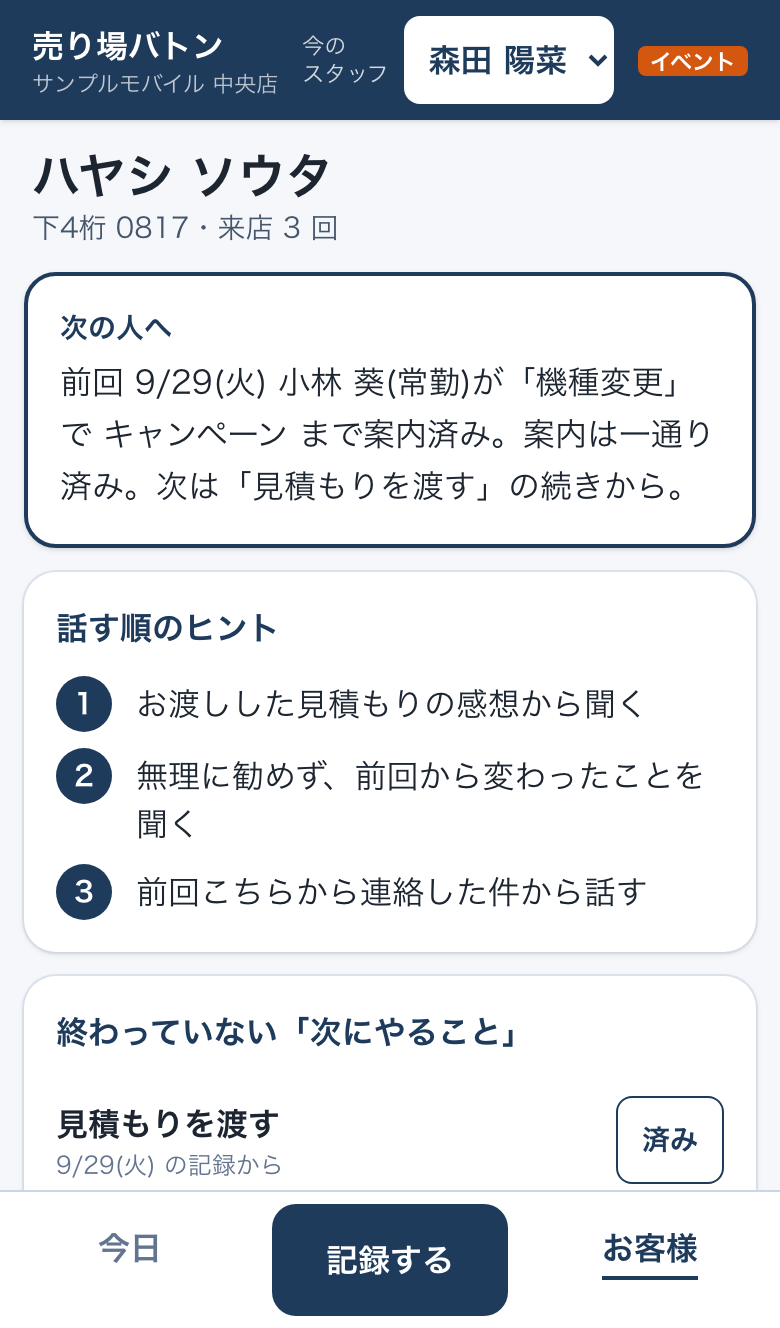
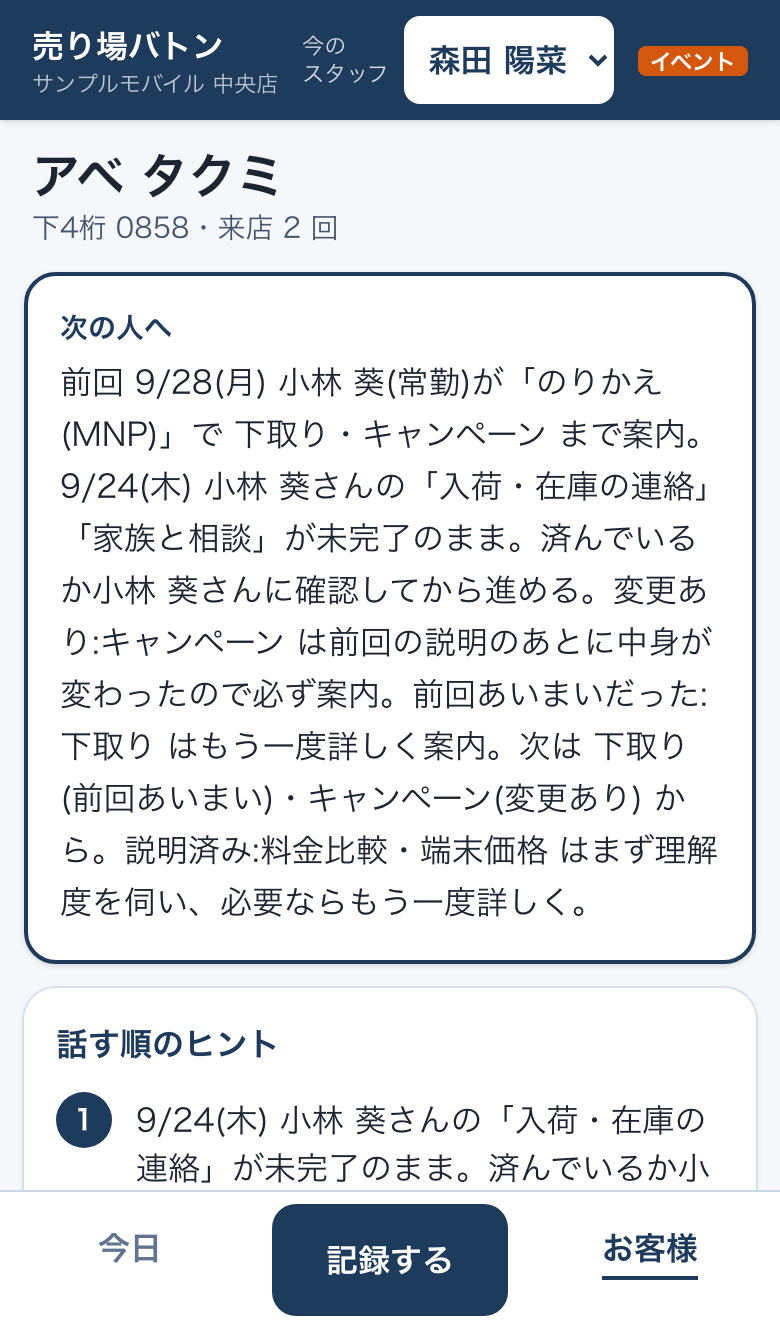
文書に現場の判断(制作者の答えの原文)を追加し、要件・DB設計・テストを更新。お客様カードのスクショを撮り直し

diff --git a/src/lib/handoff.ts b/src/lib/handoff.ts
@@ -152,6 +152,23 @@ export function staleActionText(a: StaleAction): string {
   return `${formatJstShort(a.visitedAt)} ${a.staffName}さんの「${actionLabel(a.kind, a.note)}」が未完了のまま。済んでいるか${a.staffName}さんに確認してから進める`;
 }
 
+/**
+ * 要約用:同じ日・同じ担当者の未完了はまとめて1文にする。
+ * 例:「9/24(木) 小林 葵さんの「入荷・在庫の連絡」「家族と相談」が未完了のまま。済んでいるか小林 葵さんに確認してから進める」
+ */
+export function staleSummaryTexts(stale: StaleAction[]): string[] {
+  const groups = new Map<string, StaleAction[]>();
+  for (const a of stale) {
+    const key = `${a.visitedAt.getTime()}|${a.staffName}`;
+    groups.set(key, [...(groups.get(key) ?? []), a]);
+  }
+  return [...groups.values()].map((list) => {
+    const { visitedAt, staffName } = list[0];
+    const labels = list.map((a) => `「${actionLabel(a.kind, a.note)}」`).join("");
+    return `${formatJstShort(visitedAt)} ${staffName}さんの${labels}が未完了のまま。済んでいるか${staffName}さんに確認してから進める`;
+  });
+}
+
 /** 次に案内する項目の表示名(変更あり・あいまいには印をつける) */
 function nextLabel(s: ItemStatus): string {
   if (s.state === "CHANGED") return `${s.label}(変更あり)`;
@@ -194,7 +211,7 @@ export function buildHandoffSummary(
   ];
 
   // 前回より前の未完了の約束は、担当者に確認してから
-  for (const a of stale) sentences.push(`${staleActionText(a)}。`);
+  for (const t of staleSummaryTexts(stale)) sentences.push(`${t}。`);
 
   // ここから:これまで全体で見た状況
   const changed = byState("CHANGED");

diff --git a/src/lib/__tests__/handoff.test.ts b/src/lib/__tests__/handoff.test.ts
@@ -186,6 +186,21 @@ describe("問2:前回より前の未完了の約束(Codex が再現した例)", 
     );
   });
 
+  it("同じ日・同じ担当者の未完了は、要約では1文にまとめる", () => {
+    const two = {
+      ...older,
+      actions: [
+        { kind: "STOCK" as const, note: null, done: false },
+        { kind: "FAMILY" as const, note: null, done: false },
+      ],
+    };
+    const text = buildHandoffSummary([visit(), two], catalog).text;
+    expect(text).toContain(
+      "9/25(金) 中村 誠さんの「入荷・在庫の連絡」「家族と相談」が未完了のまま。済んでいるか中村 誠さんに確認してから進める。",
+    );
+    expect(text.match(/確認してから進める/g)).toHaveLength(1);
+  });
+
   it("済んでいれば出さない", () => {
     const done = { ...older, actions: [{ kind: "STOCK" as const, note: null, done: true }] };
     expect(buildHandoffSummary([visit(), done], catalog).staleActions).toHaveLength(0);

diff --git a/tests/screenshots/readme.spec.ts b/tests/screenshots/readme.spec.ts
@@ -8,10 +8,13 @@ test("README のスクショ", async ({ page }) => {
   await page.reload();
   await page.screenshot({ path: "docs/images/today.png" });
 
-  await page.goto("/customers?q=ハヤシ");
-  await page.getByRole("link", { name: /ハヤシ ソウタ/ }).click();
+  // 前々回の未完了の約束・キャンペーンの改定・理解があいまい、が全部出る見本のお客様
+  await page.goto("/customers?q=アベ");
+  await page.getByRole("link", { name: /アベ タクミ/ }).click();
   await page.getByTestId("handoff-summary").waitFor();
   await page.screenshot({ path: "docs/images/customer-card.png" });
+
+  await page.screenshot({ path: "docs/images/customer-card-full.png", fullPage: true });
 
   await page.getByRole("link", { name: "このお客様の記録を残す" }).click();
   await page.getByRole("button", { name: "検討中" }).waitFor();

diff --git a/docs/03_DB設計.md b/docs/03_DB設計.md
@@ -61,6 +61,8 @@ erDiagram
     int topic_id FK
     varchar label
     int sort_order "話す順"
+    boolean is_volatile "中身が変わる項目か"
+    date content_revised_on "最後に中身が変わった日(CHECK)"
   }
   visit_topics {
     uuid visit_id PK, FK
@@ -70,6 +72,7 @@ erDiagram
     uuid visit_id PK, FK
     int checklist_item_id PK, FK
     int topic_id FK
+    boolean understanding_unclear "理解があいまい"
   }
   next_actions {
     uuid id PK
@@ -90,9 +93,9 @@ erDiagram
 | `customers` | お客様 | 名前カナと電話番号の**下4桁だけ**。店ごとに持つ |
 | `visits` | 接客記録(来店1回=1件) | 担当者 `staff_id` は NOT NULL。記録時点の役割・出どころ(人/見本/自動テスト)・送信ID・入力にかかった秒数・次回来店予定日を持つ |
 | `topics` | 用件の目録(機種変更・のりかえ…) | 画面のボタンはこの表から作る |
-| `checklist_items` | 用件ごとの「案内すること」の目録 | `sort_order` が話す順。要約の「次は〜から」はこの順で出す |
+| `checklist_items` | 用件ごとの「案内すること」の目録 | `sort_order` が話す順。要約の「次は〜から」はこの順で出す。料金・キャンペーンなど中身が変わる項目は、最後に中身が変わった日を持つ |
 | `visit_topics` | 記録 × 用件の中間表 | 1回の来店で用件は複数 |
-| `visit_checks` | 記録 × 案内項目の中間表 | 選んだ用件の項目しか入らない(下の「迷った所 3」) |
+| `visit_checks` | 記録 × 案内項目の中間表 | 選んだ用件の項目しか入らない(下の「迷った所 3」)。お客様の理解があいまいだったかの印を持つ |
 | `next_actions` | 次にやること | `done_at` が空なら未完了。済みにした人も残す |
 
 ## 制約と、その理由
@@ -108,6 +111,7 @@ erDiagram
 | CHECK | `name_kana ~ '^[ァ-ヶー ]+$'` | 画面で揃え忘れても、ひらがな・漢字が混ざらない(混ざると検索で見つからなくなる) |
 | CHECK | `input_seconds BETWEEN 0 AND 3600` | 画面を開きっぱなしにした異常値で平均が壊れないように |
 | CHECK | `kind <> 'OTHER' OR note が空でない` | 「その他」だけでは次の人に何も伝わらない |
+| CHECK | `content_revised_on` は `is_volatile` の項目にだけ入る | 中身が変わらない項目に改定日が入って「変更あり」が出るのを防ぐ |
 | CHECK | `done_at` と `done_by_staff_id` はそろって入るか、そろって空 | 「済み」なのに誰が済ませたか分からない、を防ぐ |
 | 一意 | `visits(request_id)` | 同じ送信IDの記録は1件しか入らない(二重送信の防止。下の「迷った所 8」) |
 | 一意 | `staff(store_id, name)`・`topics(code)`・`checklist_items(topic_id, label)` | 同じ名前のボタンが2つ並ばないように |
@@ -191,6 +195,19 @@ CHECK 制約と RLS は Prisma のスキーマでは書けないので、[最初
 ### 9. 見本の秒数と、人が入れた秒数を分ける
 
 見本データ(seed)の入力秒数は作り物。これを実測と一緒に平均すると、「30秒以内で残せている」ように見えてしまう(面接官役の審査での指摘)。`visits.source` に出どころ(MANUAL=人が画面で入れた/SEED=見本/E2E=自動テスト)を持たせ、画面の「記録にかかった時間」は MANUAL だけで集計する。見本の秒数は「見本値(参考)」と書いて別に出す。実測が0件のあいだは「まだ実測なし」と出す。
+
+### 10. 「説明済み」を期限でなく、理解度と中身の改定で決める(現場の判断。04)
+
+日数で「説明済み」を切ると、1年前の説明も昨日の説明も同じに扱えない一方、「何日なら古いか」に根拠がない。制作者(現場)の答えは「期限ではなく、お客様の理解度を伺う。料金プランやキャンペーンが変わっていたら必ず案内する」だった。そこで、データとして持つのは次の2つにした。
+
+- **`visit_checks.understanding_unclear`**:案内したその場で「理解があいまい」と感じたら付ける印。案内したことの中間表の1行(=その日のその項目の案内)についての事実なので、ここに持つ。既定は false(付けない)で、記録画面では任意のタップ1回。あとの来店で同じ項目をあいまいの印なしで案内したら、説明済みに戻る
+- **`checklist_items.is_volatile` と `content_revised_on`**:料金・キャンペーンのように中身が変わる項目か、と、最後に中身が変わった日。最後に説明した日 ≦ 改定日 なら「変更あり:必ず案内」(同じ日はどちらが先か分からないので、必ず案内する方に倒す)
+
+改定の**履歴の表**(いつ・何が変わったか)を作る案もあった。今の判断に要るのは「最後に変わった日」だけなので、列1つにした。「何が変わったか」を画面に出したくなったら、`checklist_item_revisions(item_id, revised_on, note)` に分ける。
+
+### 11. 入力秒数は「最初の入力から」
+
+画面を開いた時から数えると、接客中に画面を開いておいた時間(数分)が混ざる。最初のタップ・文字入力から保存までを入力時間にした。計算は関数にして単体テストしている。
 
 ## 店の境界:DBで守っていること・関数で守っていること
 

diff --git a/docs/04_AIとの作業記録.md b/docs/04_AIとの作業記録.md
@@ -12,6 +12,37 @@
 | テーブルの細かい形・制約・画面の並び・要約とヒントのルールの文面 | Claude Code が案を出して実装した。理由は 03 に書いた |
 | 公開・GitHubへのpush・デプロイ | まだしていない(制作者が確認してから) |
 
+## 現場の判断(制作者が決めた所)
+
+話す順のヒントと「次の人へ」の要約のルールのうち、次の3つは業務の判断が要るので、AIは決めずに制作者(携帯売り場14年・この作品の最初のお客様)に聞いた。答えは原文のまま。
+
+### 問1 「見積もりを渡す」がまだ終わっていない時、次のスタッフは何から話す?
+
+> 詳細を見積もりを作りながら、ご案内させていただきますね
+
+→ 未完了の「見積もりを渡す」があれば、ヒントの1番は「見積もりを作りながら詳細を案内する(声かけの例:『詳細を見積もりを作りながら、ご案内させていただきますね』)」。「お渡しした見積もりの感想から聞く」は、見積もりを渡すが**済んだ**ときだけ出す。ほかの「次にやること」も、まだ/済みで文を分けた。
+
+### 問2 前の前の来店の約束が残っていたら?
+
+> 他のスタッフにこのタスクがしっかりと終わっているかどうかを確認してから処理
+
+→ 前回だけでなく、全部の記録から未完了の「次にやること」を集める。前回より前の記録に残っているものは「9/25 中村 誠さんの『入荷・在庫の連絡』が未完了のまま。済んでいるか中村 誠さんに確認してから進める」と、担当者の名前つきで要約・ヒント・お客様カードの未完了一覧に出す。
+
+### 問3 説明したことは、いつまで「説明済み」でいい?
+
+> 念のため、お客様にもう一度の詳細なご案内が必要かどうか確認してご案内する、料金プランや、キャンペーンが変わっている場合は、必ずご案内する
+
+補足:
+
+> いつまでというか、お客様の理解度を伺う、もしくは案内中に理解していないと感じたら、再度詳しくご案内する
+
+→ 説明済みは**日数で切らない**。お客様の理解度で決める。
+- 説明済みの項目:「説明済み:まず理解度を伺い、必要ならもう一度詳しく」
+- 記録のとき「理解があいまい」の印を付けた項目(任意・タップ1回):「前回あいまいだった:もう一度詳しく案内」
+- 料金・キャンペーンのように中身が変わる項目で、前回の説明のあとに中身が変わっていたら:「変更あり:必ず案内」。説明済みには数えない
+
+この3つが決まる前の版では、AIが仮に決めたルール(見積もりは「感想から聞く」だけ・前回の約束だけ見る・全履歴で一度でも説明すれば済み)になっていた。面接官役の審査で、その矛盾(まだ渡していない見積もりの「感想」を聞くことになる、など)を指摘され、制作者に聞いて直した。
+
 ## 作業の流れ(2026-10-06、時系列)
 
 ### 1. 今の版の書き方を確かめた
@@ -72,6 +103,12 @@
 - 既に行がある表に NOT NULL の列を足すマイグレーションは、Prisma が対話での確認を求めて作れなかった。**SQL を手で書いた**(空を許して足す → 既存の行を埋める → NOT NULL にする)。そのあと差分が無いことを確かめた
 - 同じフォルダで別の dev サーバー(制作者側の確認用と思われる)が動いていて、画面テスト用の dev サーバーが起動できなかった。止めずに、画面テストを build した本番の形で動かすように変えた
 
-### 10. AIがやらなかったこと
+### 10. 現場の判断に沿って直したこと(2026-10-07)
+- 上の「現場の判断」の3つを、要約とヒントのルールに入れた。Codex が再現した例(未完了の見積もり・前々回の未完了・1年前の説明済み)は、そのまま単体テストにした
+- 要約の文が組み合わせによって矛盾しないよう(「次は〜から」と「一通り案内済み」が同時に出ない、など)、その日の案内・それ以前の案内・前々回の約束・あいまいの印の組み合わせ24通りを単体テストで押さえた。以前の版の「前回…案内はまだ。…案内は一通り済み」のような言い方はやめ、1文目は「その日の話」、2文目からは「これまで全体の話」と分けた
+- DB:案内項目に「中身が変わる項目か」「最後に中身が変わった日」、案内したことに「理解があいまい」を足した(理由は 03)
+- 入力秒数は「画面を開いてから」ではなく「最初の入力から」保存までにした(番頭から、開いたまま放置すると276秒のように数えてしまうと指摘)
+
+### 11. AIがやらなかったこと
 - GitHub への push・リモートの追加・デプロイ・アカウント作成
 - ローカルの Supabase の既定値以外の秘密の値を作ること(`.env` は git の対象外。`.env.example` だけ入れている)

diff --git a/docs/05_テストと確かめ.md b/docs/05_テストと確かめ.md
@@ -4,9 +4,9 @@
 
 | 段 | コマンド | 何を試すか | 本数 |
 |---|---|---|---|
-| 単体テスト(DBなし) | `npm test` | 「次の人へ」の要約・話す順のヒント・入力秒数の集計・日本時間の日付(年またぎ含む)・カナの揃え方・保存前の入力チェック(ない日付・長さ・送信ID)・seed の接続先の確認 | 42本 |
-| 統合テスト(実DB) | `npm run test:db` | 年またぎの来店予定・同時に「済み」・同時に記録・二重送信(順番/同時)・記録時点の役割・見本と実測の分離・店の境界・トランザクションの巻き戻し・DBの制約 | 16本 |
-| 画面の通しテスト | `npm run test:e2e` | iPhone 13 の大きさの画面で、イベントスタッフが記録 → 常勤が続きから記録/スタッフ未選択では保存できない/二重登録の候補表示 | 3本 |
+| 単体テスト(DBなし) | `npm test` | 「次の人へ」の要約・話す順のヒント(現場の判断3つ・文の矛盾の組み合わせ24通り)・入力秒数(最初の入力から)と集計・日本時間の日付(年またぎ含む)・カナの揃え方・保存前の入力チェック・seed の接続先の確認 | 81本 |
+| 統合テスト(実DB) | `npm run test:db` | 年またぎの来店予定・同時に「済み」・同時に記録・二重送信(順番/同時)・記録時点の役割・見本と実測の分離・店の境界・現場の判断3つをDBの記録から通しで・トランザクションの巻き戻し・DBの制約 | 18本 |
+| 画面の通しテスト | `npm run test:e2e` | iPhone 13 の大きさの画面で、イベントスタッフが記録(理解があいまいの印つき)→ 常勤が続きから記録/スタッフ未選択では保存できない/二重登録の候補表示 | 3本 |
 | 静的チェック | `npm run lint` / `npm run typecheck` | ESLint・TypeScript strict | - |
 | build | `npm run build` | DBにつながらない状態でも通る | - |
 
@@ -16,7 +16,7 @@ CI(`.github/workflows/ci.yml`)で全部を流す。DBを使うテストは GitHu
 ## 主に確かめたことと、確かめ方
 
 ### 30秒以内
-- 画面を開いてから保存までの秒数を `visits.input_seconds` に保存している
+- **最初の入力(タップ・文字入力)から**保存までの秒数を `visits.input_seconds` に保存している。画面を開いた時からにすると、接客中に画面を開いておいた時間が混ざる(開いたまま4分半たってから24秒で入れた例を単体テストにした)。画面の秒の表示は最初の入力までは「—」(画面テスト)
 - 集計(平均・中央値・30秒以内の割合)は関数にして、0件・おかしな値を含めて単体テストした
 - 今日の一覧に、直近30日の「平均/30秒以内の割合」を全体・常勤・イベントに分けて出す
 - 集計は人が画面で入れた記録(source=MANUAL)だけ。見本(SEED)と自動テスト(E2E)は入れない(統合テスト)。見本の秒数は「見本値(参考)」と分けて出す(画面テスト)
@@ -50,6 +50,11 @@ CI(`.github/workflows/ci.yml`)で全部を流す。DBを使うテストは GitHu
 ### seed の保護
 - 接続先が localhost 以外なら止まる(単体テスト+実際に外のURLを渡して止まることを確かめた)
 
+### 現場の判断(問1〜3)
+- 単体:Codex が再現した3つの例(まだ渡していない見積もり・前々回の未完了の約束・1年前の説明)をそのままテストにした。改定日と説明日が同じ日・あいまいと改定が重なる・あいまいの後に分かってもらえた、も押さえた
+- 単体:その日の案内(なし/一部/全部)× それ以前の案内 × 前々回の約束 × あいまいの印、の24通りで、要約の文が矛盾しない(「次は」と「一通り済み」が同時に出ない、「説明済み」と「次は」に同じ項目が出ない)ことを確かめた
+- 統合:DBに入れた記録から、あいまいの印・キャンペーンの改定・前々回の未完了の約束が、要約とヒントに出ることを通しで確かめた
+
 ### DBの制約
 - 選んでいない用件の項目のチェック・数字4つでない下4桁・漢字の混ざったカナ・自由記入なしの「その他」を、それぞれDBが弾くことを統合テストで確かめた
 - 保存の途中で失敗したら、新規のお客様も作られない(1つのトランザクション)
@@ -60,11 +65,11 @@ CI(`.github/workflows/ci.yml`)で全部を流す。DBを使うテストは GitHu
 ### Supabase の API から読めない
 - 公開キーで `/rest/v1/customers` を読むと空の配列が返る(RLS が効いている)
 
-## 結果(2026-10-06、ローカル。審査の指摘を直したあと)
+## 結果(2026-10-07、ローカル。現場の判断を入れたあと)
 
 ```
-npm test           → 42 passed
-npm run test:db    → 16 passed(Supabase ローカル / 素の postgres:17 の両方)
+npm test           → 81 passed
+npm run test:db    → 18 passed(Supabase ローカル / 素の postgres:17 の両方)
 npm run test:e2e   → 3 passed
 npm run lint       → エラー0
 npm run typecheck  → エラー0

diff --git a/docs/02_要件.md b/docs/02_要件.md
@@ -21,18 +21,31 @@
 
 | 基準 | 確かめ方 |
 |---|---|
-| 30秒以内で記録できる | 画面を開いてから保存までの秒数を毎回保存し、今日の一覧に平均と「30秒以内の割合」を出す。集計は人が画面で入れた記録だけ(見本・自動テストは除く)。**現場の人での計測はまだ**なので、この基準はまだ満たしたと言えない |
+| 30秒以内で記録できる | 最初の入力から保存までの秒数を毎回保存し(画面を開いたまま接客する時間は混ぜない)、今日の一覧に平均と「30秒以内の割合」を出す。集計は人が画面で入れた記録だけ(見本・自動テストは除く)。**現場の人での計測はまだ**なので、この基準はまだ満たしたと言えない |
 | 誰が案内したか必ず残る | 記録の担当者は画面上部の「今のスタッフ」から自動で入る。DBでも NOT NULL。スタッフを選ばないと保存ボタンが押せない |
 | 2回目の担当者が最初の説明をしなくて済む | お客様カードの一番上に「前回◯◯さんが△△まで案内済み。次は□□から」を出す。その下に話す順のヒントを3つまで出す |
 
 ## やること(この版)
 
 - **30秒の記録**:お客様を探す/新規 → 用件(複数可)→ 案内したこと → 温度感 → 次にやること → 次回来店予定(任意)→ 保存。すべてタップで選べる。自由記入(メモ・「その他」の中身)は任意
-- **入力秒数の記録**:画面を開いてから保存までの秒数を保存し、平均・中央値・30秒以内の割合を出す(常勤/イベントで分けて見られる)
+- **入力秒数の記録**:最初の入力(タップ・文字入力)から保存までの秒数を保存し、平均・中央値・30秒以内の割合を出す(常勤/イベントで分けて見られる)
 - **お客様カード**:名前カナ・電話番号の下4桁で探す。開くと「次の人へ」の要約 → 話す順のヒント → 過去の記録の時系列
 - **今日の一覧**:今日・今週の来店予定のお客様と、終わっていない「次にやること」
 - **イベントスタッフの印**:記録・一覧で、イベントスタッフが案内した記録には印をつける
 - **スマホ縦が主**:ボタンは高さ48px以上、保存ボタンは画面下に固定
+
+## 引き継ぎのルール(現場の判断。原文は 04)
+
+| 場面 | 次の人に出すこと |
+|---|---|
+| 「見積もりを渡す」がまだ | 見積もりを作りながら詳細を案内する(声かけの例つき)。感想は聞かない |
+| 「見積もりを渡す」が済んだ | お渡しした見積もりの感想から聞く |
+| 前回より前の約束が未完了のまま | 済んでいるか、その記録の担当者に確認してから進める |
+| 説明済みの項目 | 期限で切らない。まず理解度を伺い、必要ならもう一度詳しく |
+| 前回「理解があいまい」だった項目 | もう一度詳しく案内 |
+| 料金・キャンペーンなどで、前回の説明のあとに中身が変わった | 必ず案内(説明済みに数えない) |
+
+**誰が「中身が変わった日」を入れるか**:店長が、料金プランやキャンペーンが変わった日に入れる想定。**入れる画面はこの版では作っていない**。見本データでは「キャンペーンは seed を流した日の6日前に変わった」として入れている(2026-10-07 に流すと 10/1)。
 
 ## やらないこと(この版)と、その理由
 
@@ -42,6 +55,7 @@
 | お客様の氏名(漢字)・電話番号の全桁 | 引き継ぎに必要なのは「同じ人だと分かること」だけ。個人情報は最小限にする | 増やさない方針。必要になったら理由を書いてから足す |
 | AIによる要約 | 同じ記録なら毎回同じ文が出る方が、現場で信用しやすく、説明もできる | 記録がたまったら、ルールの要約とAIの要約を並べて比べる |
 | 複数店舗 | まず1店で使ってもらう | テーブルは `store_id` を持っているが、**画面を足すだけでは済まない**。①ログインした人の店を決める認可 ②今は「最初の店」を固定で読んでいる所の置き換え ③DBで保証していない店の一致(記録のスタッフとお客様が同じ店か、など。03 に書いた)をDBでも守るか決める、が要る |
+| 改定日を入れる画面 | まず「変更あり」の出し方を固めた | 店長だけが入れられる画面(ログインと権限のあと) |
 | 記録の修正・削除 | 「誰がいつ何をしたか」を残すことを優先した | 修正は履歴を残す形で足す |
 | 外部への公開・デプロイ | 公開前に、持ち主の確認が要る | Vercel + Supabase(本番)へ。手順は README の「今後の改善」 |
 

diff --git a/README.md b/README.md
@@ -10,7 +10,7 @@
 |---|---|---|
 | <img src="docs/images/today.png" width="240" alt="今日の一覧"> | <img src="docs/images/customer-card.png" width="240" alt="お客様カード"> | <img src="docs/images/record.png" width="240" alt="記録する"> |
 
-※ 画面はすべて見本データ(架空の店・架空の人)。スマホ幅(390px)で撮影
+※ 画面はすべて見本データ(架空の店・架空の人)。スマホ幅(390px)で撮影。お客様カードの全体は [customer-card-full.png](docs/images/customer-card-full.png)
 
 ## この作品の流れ
 
@@ -20,8 +20,8 @@
 | 2. 要件 | 困りごと・やること/やらないこと・完成の基準 | [02_要件](docs/02_要件.md) |
 | 3. DB設計 | 正規化した9テーブル・ER図・制約の理由・迷った所 | [03_DB設計](docs/03_DB設計.md) |
 | 4. 実装 | Next.js + TypeScript + Prisma + Supabase。AIとの分担と直した所 | [04_AIとの作業記録](docs/04_AIとの作業記録.md) |
-| 5. テスト | 単体42本・DB統合16本・画面3本・CI | [05_テストと確かめ](docs/05_テストと確かめ.md) |
-| 6. 改善 | 面接官役の審査で出た指摘を直した(04)。次は入力秒数を現場で測って直す | 下の「今後の改善」 |
+| 5. テスト | 単体81本・DB統合18本・画面3本・CI | [05_テストと確かめ](docs/05_テストと確かめ.md) |
+| 6. 改善 | 面接官役の審査の指摘を直し、業務の判断は制作者に聞いて反映した(04「現場の判断」)。次は入力秒数を現場で測って直す | 下の「今後の改善」 |
 
 ## 困りごと
 
@@ -34,11 +34,12 @@
 ## 作ったもの
 
 - **短く残せる記録(目標30秒)**:お客様 → 用件 → 案内したこと → 温度感 → 次にやること → 次回来店予定。全部タップ。担当者は画面上部の「今のスタッフ」から自動で入る
-- **入力秒数の記録**:画面を開いてから保存までの秒数を毎回保存。平均と「30秒以内の割合」を、常勤・イベントスタッフに分けて出す。見本データ・自動テストの秒数は実測に混ぜず、見本値は「参考」と書いて分ける
+- **入力秒数の記録**:最初の入力から保存までの秒数を毎回保存(画面を開いたまま接客する時間は混ぜない)。平均と「30秒以内の割合」を、常勤・イベントスタッフに分けて出す。見本データ・自動テストの秒数は実測に混ぜず、見本値は「参考」と書いて分ける
 - **二重送信の防止**:保存を2回押しても、通信が切れて送り直しても、記録は1件
 - **お客様カード**:名前カナか電話番号の下4桁で探す。一番上に
-  「前回 10/3(土) 森田 陽菜(イベント)が「のりかえ(MNP)」で 料金比較・端末価格 まで案内済み。次は 下取り・キャンペーン から。」
-  その下に「話す順のヒント」3つ、その下に過去の記録
+  「前回 10/3(土) 森田 陽菜(イベント)が「のりかえ(MNP)」で 料金比較・端末価格 まで案内。次は 下取り・キャンペーン から。説明済み:料金比較・端末価格 はまず理解度を伺い、必要ならもう一度詳しく。」
+  その下に「話す順のヒント」3つ、「案内の状況」(説明済み・前回あいまい・変更あり・まだ)、過去の記録
+- **現場の判断どおりの引き継ぎ**:まだ渡していない見積もりは「作りながら案内」、前々回の未完了の約束は担当者に確認してから、説明済みは期限で切らず理解度を伺う、料金・キャンペーンが変わっていたら必ず案内(04 に制作者の答えを原文で)
 - **今日の一覧**:今日・今週の来店予定と、終わっていない「次にやること」
 - **イベントスタッフの印**:誰が案内した記録か一目で分かる
 
@@ -83,7 +84,7 @@ npm run dev                   # http://localhost:3000
 
 スマホの大きさで見るときは、ブラウザの開発者ツールでスマホ表示にする。最初に画面上部で「今のスタッフ」を選ぶ。
 
-見本データは架空の店「サンプルモバイル 中央店」、スタッフ5人(常勤3・イベント2)、お客様20人、記録47件。店名・人名はすべて作り物。`npm run db:seed` は流すたびに中身を入れ直す。
+見本データは架空の店「サンプルモバイル 中央店」、スタッフ5人(常勤3・イベント2)、お客様20人、記録53件(理解があいまいの印・前々回の未完了の約束・キャンペーンの改定も少し入れてある)。店名・人名はすべて作り物。`npm run db:seed` は流すたびに中身を入れ直す。
 
 ### テスト
 
